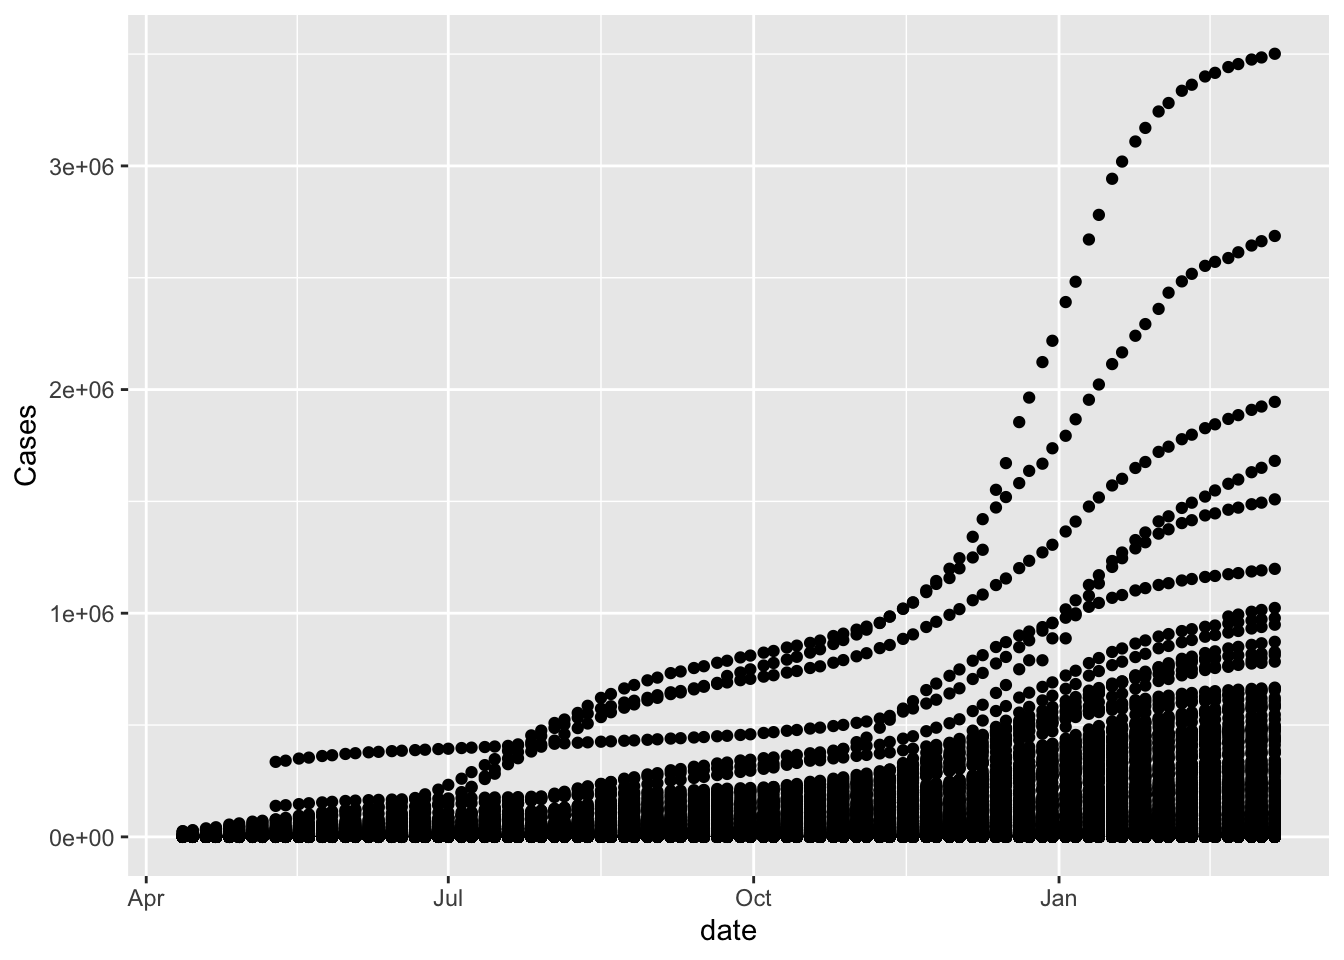
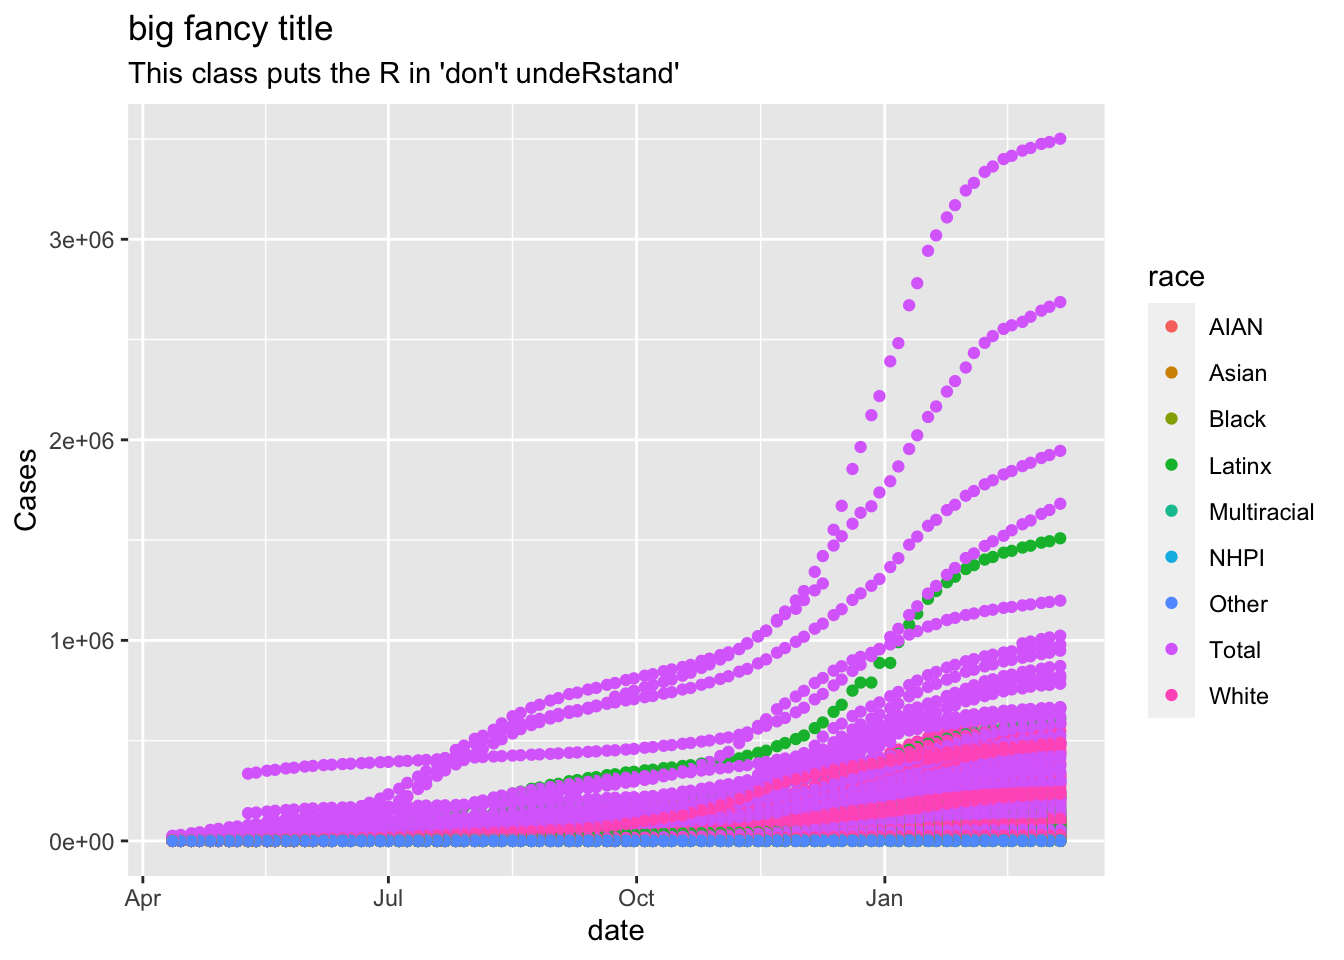
Attempted to modify plots. They look bad now...

diff --git a/Week_02_Covid_Vis.html b/Week_02_Covid_Vis.html
@@ -2,11 +2,11 @@
 <html xmlns="http://www.w3.org/1999/xhtml" lang="en" xml:lang="en"><head>
 
 <meta charset="utf-8">
-<meta name="generator" content="quarto-1.3.450">
+<meta name="generator" content="quarto-1.3.353">
 
 <meta name="viewport" content="width=device-width, initial-scale=1.0, user-scalable=yes">
 
-<meta name="author" content="[[Your Name]]">
+<meta name="author" content="[[A Layne]]">
 <meta name="dcterms.date" content="2023-09-11">
 
 <title>Week 02: COVID Visualization Activity</title>
@@ -91,7 +91,7 @@ pre > code.sourceCode > span > a:first-child::before { text-decoration: underlin
     <div>
     <div class="quarto-title-meta-heading">Author</div>
     <div class="quarto-title-meta-contents">
-             <p><strong><code>[[</code></strong>Your Name<strong><code>]]</code></strong> </p>
+             <p><strong><code>[[</code></strong>A Layne<strong><code>]]</code></strong> </p>
           </div>
   </div>
     
@@ -113,7 +113,7 @@ pre > code.sourceCode > span > a:first-child::before { text-decoration: underlin
 <div class="sourceCode cell-code" id="cb1"><pre class="sourceCode r code-with-copy"><code class="sourceCode r"><span id="cb1-1"><a href="#cb1-1" aria-hidden="true" tabindex="-1"></a><span class="fu">library</span>(tidyverse)</span></code><button title="Copy to Clipboard" class="code-copy-button"><i class="bi"></i></button></pre></div>
 <div class="cell-output cell-output-stderr">
 <pre><code>── Attaching core tidyverse packages ──────────────────────── tidyverse 2.0.0 ──
-✔ dplyr     1.1.2     ✔ readr     2.1.4
+✔ dplyr     1.1.3     ✔ readr     2.1.4
 ✔ forcats   1.0.0     ✔ stringr   1.5.0
 ✔ ggplot2   3.4.3     ✔ tibble    3.2.1
 ✔ lubridate 1.9.2     ✔ tidyr     1.3.0
@@ -132,7 +132,8 @@ pre > code.sourceCode > span > a:first-child::before { text-decoration: underlin
 </div>
 <p>I’ve include 4 different data sets. They all have the same data but have it represented in different ways. Try using the different data sets and see which ones are good for making which plots.</p>
 <div class="cell">
-<div class="sourceCode cell-code" id="cb5"><pre class="sourceCode r code-with-copy"><code class="sourceCode r"><span id="cb5-1"><a href="#cb5-1" aria-hidden="true" tabindex="-1"></a><span class="fu">ggplot</span>(covid_data_count, <span class="fu">aes</span>(<span class="at">x =</span> date, <span class="at">y =</span> Cases)) <span class="sc">+</span> <span class="fu">geom_point</span>()</span></code><button title="Copy to Clipboard" class="code-copy-button"><i class="bi"></i></button></pre></div>
+<div class="sourceCode cell-code" id="cb5"><pre class="sourceCode r code-with-copy"><code class="sourceCode r"><span id="cb5-1"><a href="#cb5-1" aria-hidden="true" tabindex="-1"></a><span class="fu">ggplot</span>(covid_data_count, <span class="fu">aes</span>(<span class="at">x =</span> date, <span class="at">y =</span> Cases, <span class="at">color =</span> race)) <span class="sc">+</span> <span class="fu">geom_point</span>() <span class="sc">+</span> <span class="fu">labs</span>(<span class="at">title =</span> <span class="st">"big fancy title"</span>,</span>
+<span id="cb5-2"><a href="#cb5-2" aria-hidden="true" tabindex="-1"></a>                                                                                                                  <span class="at">subtitle =</span> <span class="st">"This class puts the R in 'don't undeRstand'"</span>)</span></code><button title="Copy to Clipboard" class="code-copy-button"><i class="bi"></i></button></pre></div>
 <div class="cell-output cell-output-stderr">
 <pre><code>Warning: Removed 1385 rows containing missing values (`geom_point()`).</code></pre>
 </div>
@@ -144,15 +145,15 @@ pre > code.sourceCode > span > a:first-child::before { text-decoration: underlin
 <div class="cell">
 <div class="sourceCode cell-code" id="cb7"><pre class="sourceCode r code-with-copy"><code class="sourceCode r"><span id="cb7-1"><a href="#cb7-1" aria-hidden="true" tabindex="-1"></a>covid_data_count <span class="sc">|&gt;</span> </span>
 <span id="cb7-2"><a href="#cb7-2" aria-hidden="true" tabindex="-1"></a>  <span class="fu">filter</span>(state <span class="sc">==</span> <span class="st">"MA"</span>) <span class="sc">|&gt;</span> </span>
-<span id="cb7-3"><a href="#cb7-3" aria-hidden="true" tabindex="-1"></a>  <span class="fu">ggplot</span>(<span class="fu">aes</span>(<span class="at">x =</span> date, <span class="at">y =</span> Cases, <span class="at">color =</span> race)) <span class="sc">+</span> <span class="fu">geom_line</span>()</span></code><button title="Copy to Clipboard" class="code-copy-button"><i class="bi"></i></button></pre></div>
+<span id="cb7-3"><a href="#cb7-3" aria-hidden="true" tabindex="-1"></a>  <span class="fu">ggplot</span>(<span class="fu">aes</span>(<span class="at">x =</span> date, <span class="at">y =</span> Cases, <span class="at">color =</span> <span class="st">"pink"</span>)) <span class="sc">+</span> <span class="fu">geom_line</span>()</span></code><button title="Copy to Clipboard" class="code-copy-button"><i class="bi"></i></button></pre></div>
 <div class="cell-output-display">
 <p><img src="Week_02_Covid_Vis_files/figure-html/unnamed-chunk-1-1.png" class="img-fluid" width="672"></p>
 </div>
 </div>
 <ol type="1">
 <li>Write code for a plot and describe what you observe?</li>
-<li>Are there any conclusions you can draw?</li>
-<li>What were you not able to do due to not having the R knowledge?</li>
+<li>Are there any conclusions you can draw? Covid is bad</li>
+<li>What were you not able to do due to not having the R knowledge? I dont understand the colors and it makes me sad</li>
 <li>What other data would be useful to better understand this data?</li>
 </ol>
 
